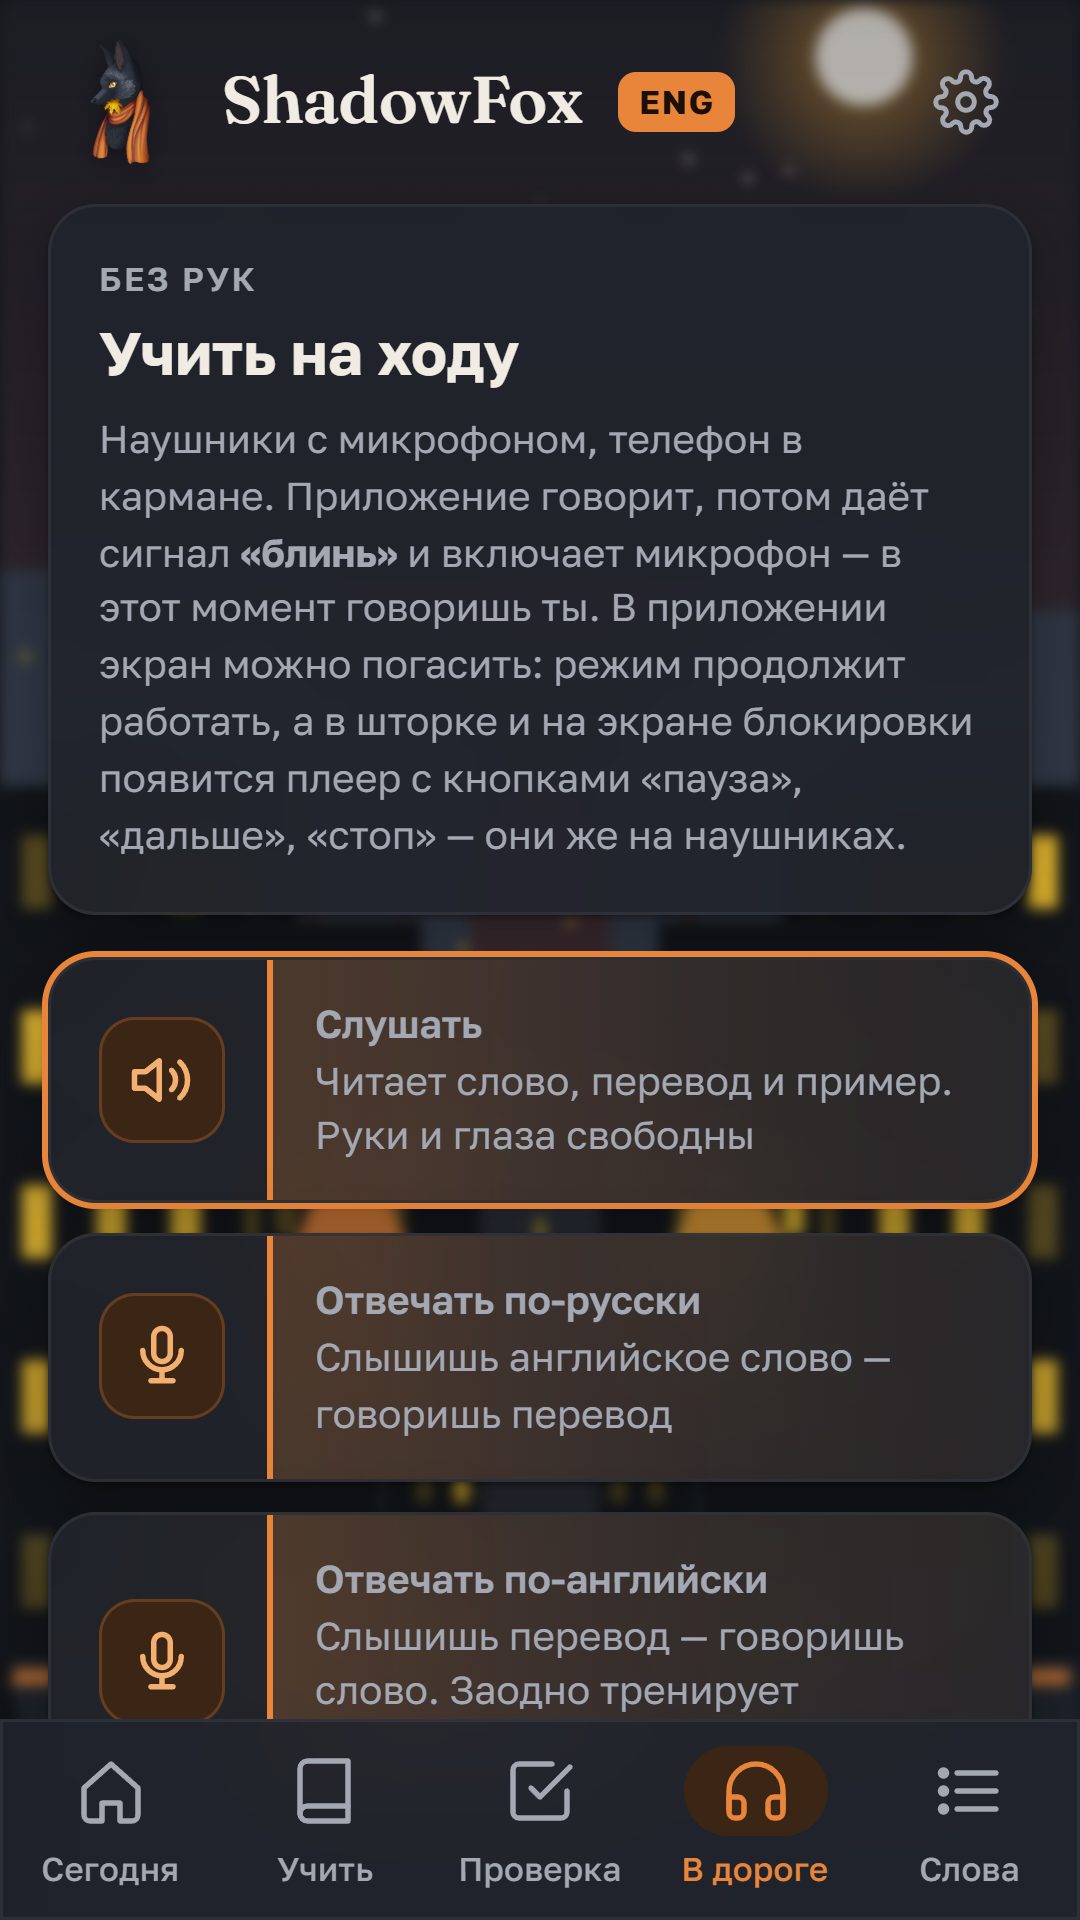
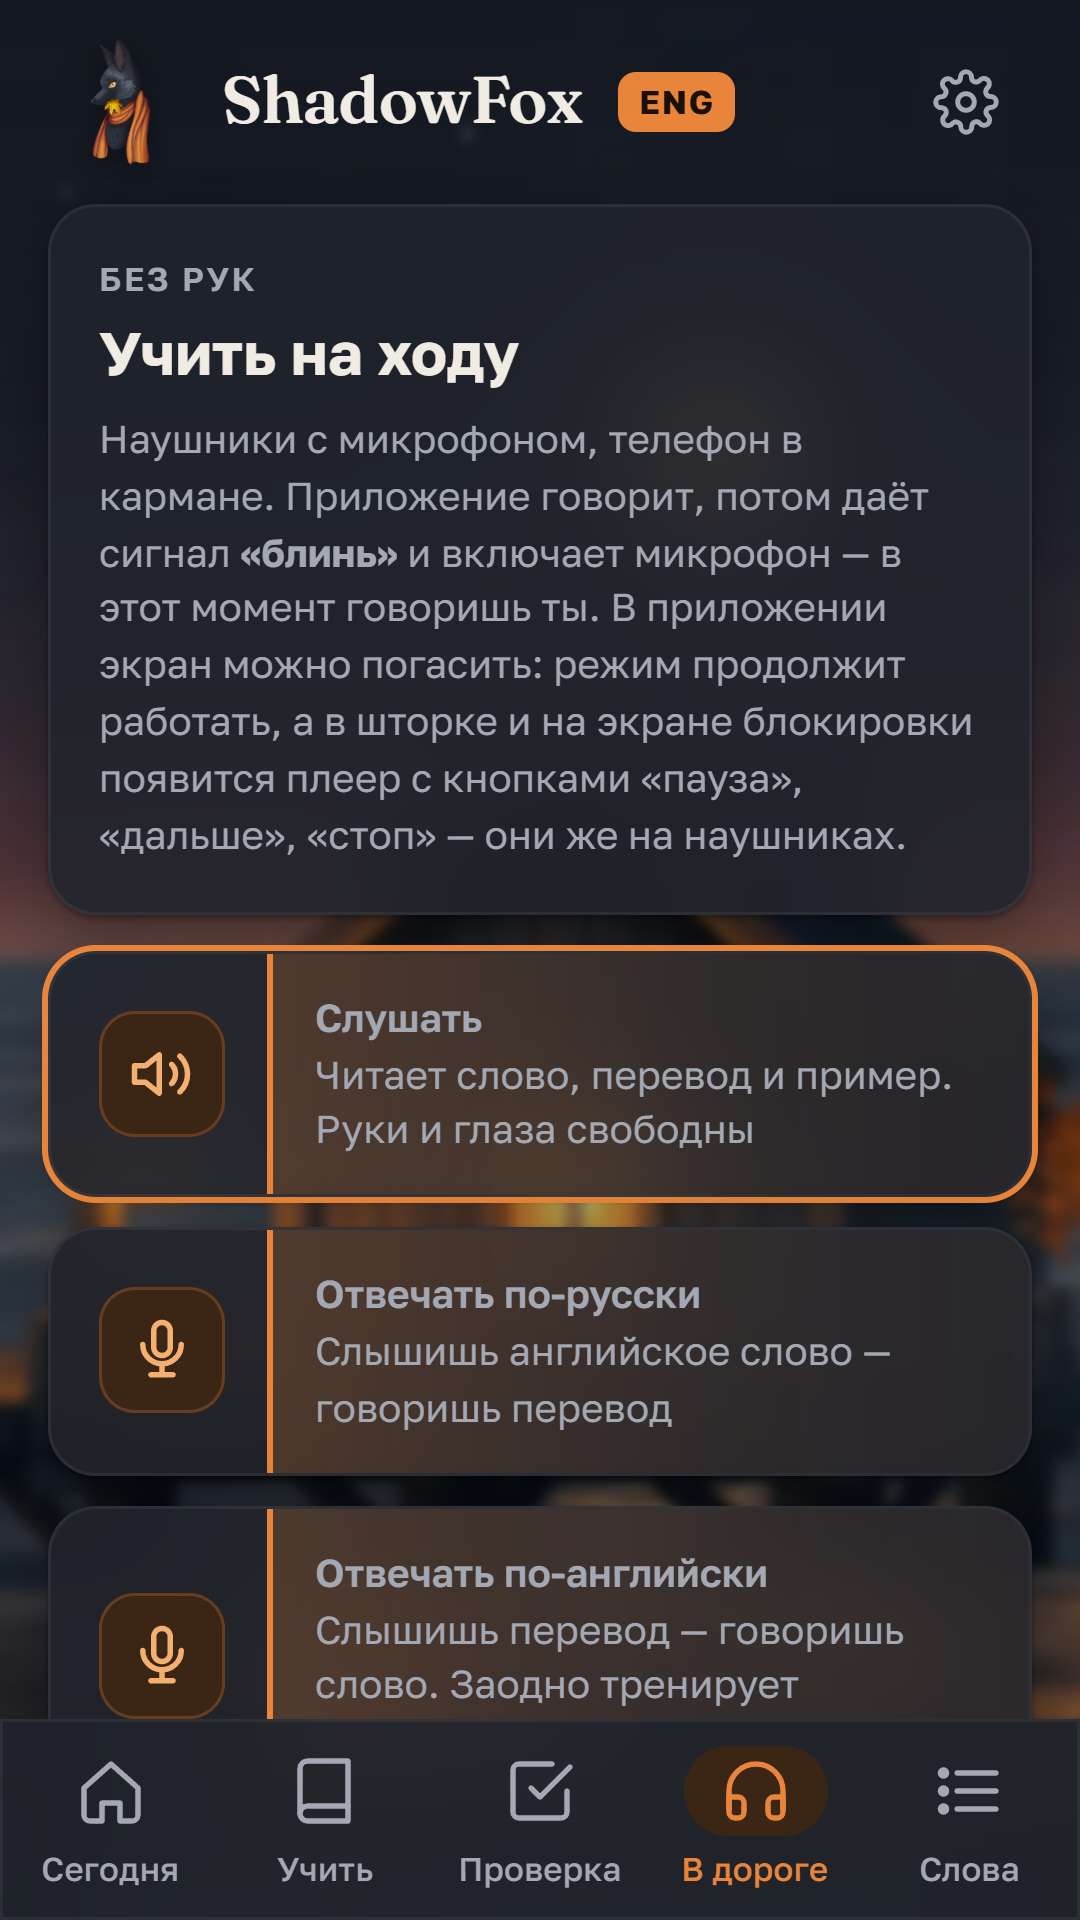
store: скриншоты 1.2.0.0 — у каждого кадра своя сцена
Восемь кадров на одном городе показывали бы пятую часть новых задников.
Теперь главная и карточка слова на лесу, «Путь Oxford 3000» на городе,
маршруты и словарь на деревне, проверка и «В дороге» на море, пропуски в горах.

diff --git a/tools/store-screens.js b/tools/store-screens.js
@@ -6,7 +6,10 @@ const path = require("path"), fs = require("fs");
 const CHROME = process.env.CHROME || "C:/Program Files/Google/Chrome/Application/chrome.exe";
 const BASE = process.env.BASE || "http://localhost:8766/index.html";
 const OUT = path.join(__dirname, "..", "store", "screens-9x16");
-const SCREENS = { home: {}, motivation: {}, thematic: {}, card: { wait: 900 }, quiz: {}, gap: {}, road: {}, words: {} };
+// Сцена у каждого кадра своя: в карточке магазина видно все пять задников, а не один
+const SCREENS = { home: { scene: "forest" }, motivation: { scene: "town" }, thematic: { scene: "village" },
+  card: { wait: 900, scene: "forest" }, quiz: { scene: "sea" }, gap: { scene: "mountain" },
+  road: { scene: "sea" }, words: { scene: "village" } };
 (async () => {
   const names = process.argv.slice(2).length ? process.argv.slice(2) : Object.keys(SCREENS);
   fs.mkdirSync(OUT, { recursive: true });
@@ -14,7 +17,7 @@ const SCREENS = { home: {}, motivation: {}, thematic: {}, card: { wait: 900 }, q
   const page = await browser.newPage();
   await page.setViewport({ width: 360, height: 640, deviceScaleFactor: 3, isMobile: true, hasTouch: true });
   for (const name of names) {
-    const url = `${BASE}?demo=1&screen=${name}&scene=town&theme=dark`;
+    const url = `${BASE}?demo=1&screen=${name}&scene=${SCREENS[name]?.scene || "forest"}&theme=dark`;
     await page.goto(url, { waitUntil: "networkidle0" });
     await new Promise(r => setTimeout(r, SCREENS[name]?.wait || 600));
     const file = path.join(OUT, `${name}.png`);
